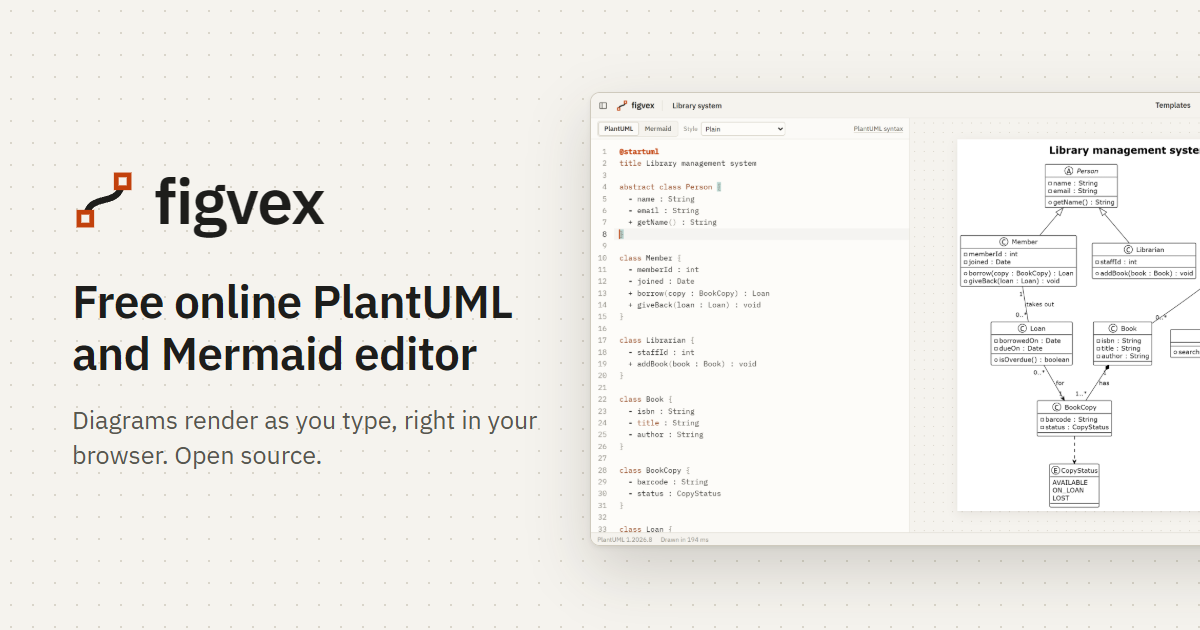
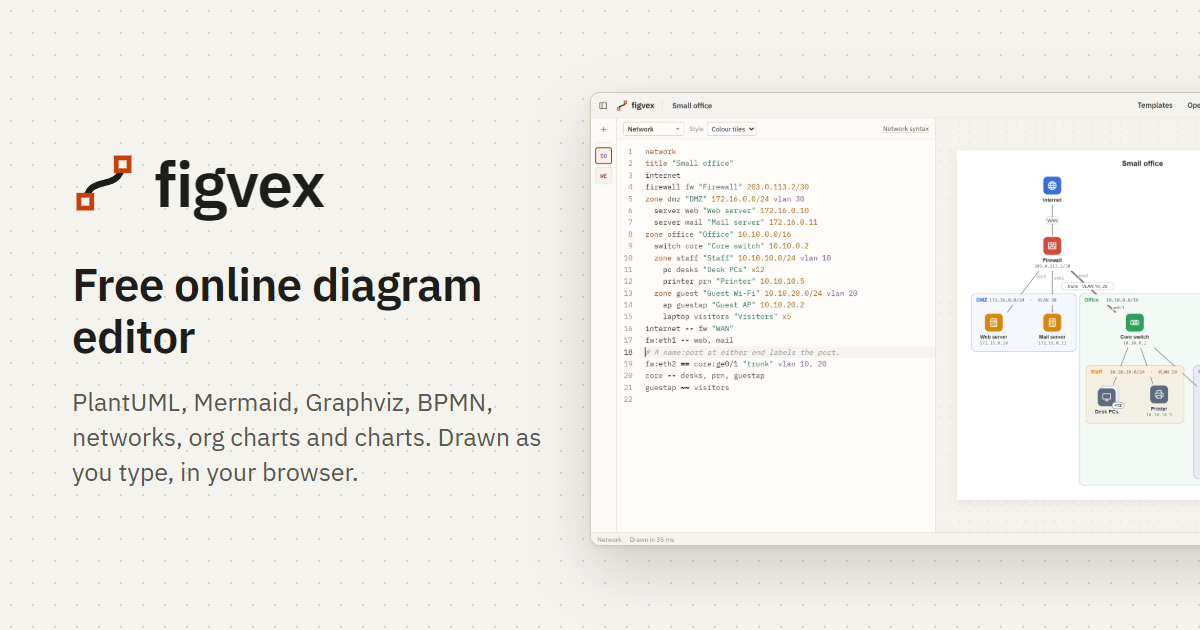
chore: describe every diagram type in search and social previews
The title, description, social cards and structured data still said
"PlantUML, Mermaid and Graphviz". They now cover BPMN, network diagrams,
org charts, data charts and sketches too. The title keeps PlantUML and
Mermaid, which are what people search for.

The structured data gets a feature list and a link to the repository,
and the social preview image is rebuilt with the new headline and the
network screenshot.

diff --git a/index.html b/index.html
@@ -3,8 +3,8 @@
   <head>
     <meta charset="utf-8" />
     <meta name="viewport" content="width=device-width, initial-scale=1, viewport-fit=cover" />
-    <title>Figvex: free online PlantUML, Mermaid and Graphviz editor</title>
-    <meta name="description" content="Free online editor for PlantUML, Mermaid and Graphviz. Write UML, sequence, class, ER, Gantt, DOT and BPMN diagrams and data charts, and see them render as you type. Runs in your browser." />
+    <title>Figvex: free online diagram editor for PlantUML, Mermaid and more</title>
+    <meta name="description" content="Free online diagram editor. Write PlantUML, Mermaid, Graphviz, BPMN, network diagrams, org charts and data charts as text, or sketch by hand, in your browser." />
     <link rel="canonical" href="%SITE_URL%/" />
     <meta name="color-scheme" content="light dark" />
     <meta name="theme-color" content="#f5f3ee" media="(prefers-color-scheme: light)" />
@@ -14,16 +14,16 @@
 
     <meta property="og:type" content="website" />
     <meta property="og:site_name" content="Figvex" />
-    <meta property="og:title" content="Figvex: free online PlantUML, Mermaid and Graphviz editor" />
-    <meta property="og:description" content="Write PlantUML, Mermaid and Graphviz diagrams and data charts, and see them render as you type. Free, open source, and runs in your browser." />
+    <meta property="og:title" content="Figvex: free online diagram editor for PlantUML, Mermaid and more" />
+    <meta property="og:description" content="Write PlantUML, Mermaid, Graphviz, BPMN, network diagrams, org charts and data charts as text, or sketch by hand. Free, open source, and runs in your browser." />
     <meta property="og:url" content="%SITE_URL%/" />
     <meta property="og:image" content="%SITE_URL%/og-image.png" />
     <meta property="og:image:width" content="1200" />
     <meta property="og:image:height" content="630" />
-    <meta property="og:image:alt" content="Figvex editor showing PlantUML code next to the class diagram it draws" />
+    <meta property="og:image:alt" content="Figvex editor with a network diagram written as text next to the drawing" />
     <meta name="twitter:card" content="summary_large_image" />
-    <meta name="twitter:title" content="Figvex: free online PlantUML, Mermaid and Graphviz editor" />
-    <meta name="twitter:description" content="Write PlantUML, Mermaid and Graphviz diagrams and data charts, and see them render as you type. Free, open source, and runs in your browser." />
+    <meta name="twitter:title" content="Figvex: free online diagram editor for PlantUML, Mermaid and more" />
+    <meta name="twitter:description" content="Write PlantUML, Mermaid, Graphviz, BPMN, network diagrams, org charts and data charts as text, or sketch by hand. Free, open source, and runs in your browser." />
     <meta name="twitter:image" content="%SITE_URL%/og-image.png" />
 
     <script type="application/ld+json">
@@ -32,7 +32,20 @@
         "@type": "WebApplication",
         "name": "Figvex",
         "url": "%SITE_URL%/",
-        "description": "Free online editor for PlantUML, Mermaid and Graphviz diagrams and data charts. Diagrams render as you type, in the browser.",
+        "description": "Free online diagram editor. Write PlantUML, Mermaid, Graphviz, BPMN, network diagrams, org charts and data charts as text, or sketch by hand, and see them drawn as you type in the browser.",
+        "featureList": [
+          "PlantUML: sequence, class, activity, use case, state, component, ER, Gantt, mind map and C4 diagrams",
+          "Mermaid: flowcharts, sequence, Gantt, user journey, Git graph and more",
+          "Graphviz DOT graphs with every layout engine",
+          "BPMN 2.0 process diagrams",
+          "Network diagrams with device icons, subnets, VLANs and IP address checks",
+          "Org charts from an indented list of people",
+          "Data charts with Apache ECharts, from JSON or CSV",
+          "A freehand sketch canvas",
+          "Export to SVG, PNG, JPG, WEBP and PDF",
+          "Share links with the whole diagram in the URL"
+        ],
+        "sameAs": "https://github.com/ahmed-imraan-ai/figvex",
         "applicationCategory": "DesignApplication",
         "operatingSystem": "Any",
         "browserRequirements": "Requires JavaScript",
@@ -52,10 +65,11 @@
     </script>
   </head>
   <body>
-    <h1 class="visually-hidden">Figvex: free online PlantUML, Mermaid and Graphviz editor</h1>
+    <h1 class="visually-hidden">Figvex: free online diagram editor for PlantUML, Mermaid and more</h1>
     <noscript>
       <p class="noscript">
-        Figvex is a free online editor for PlantUML, Mermaid and Graphviz diagrams and data charts. It draws diagrams in your browser as you type, so it needs JavaScript.
+        Figvex is a free online diagram editor. Write PlantUML, Mermaid, Graphviz, BPMN, network diagrams, org charts and data charts as text, or sketch by hand,
+        and see them drawn as you type. It runs in your browser, so it needs JavaScript.
         Turn JavaScript on to use it, or see the source code on GitHub: https://github.com/ahmed-imraan-ai/figvex
       </p>
     </noscript>

diff --git a/README.md b/README.md
@@ -4,7 +4,7 @@
 
 **Live site: [figvex.sudo520.com](https://figvex.sudo520.com)**
 
-A live editor for PlantUML, Mermaid, Graphviz and BPMN diagrams, org charts, data charts and freeform sketches. Type on the left, the diagram redraws on the right. It runs in the browser, and your diagrams stay on your machine unless you share them or turn on the PlantUML server option.
+A live editor for PlantUML, Mermaid, Graphviz and BPMN diagrams, network diagrams, org charts, data charts and freeform sketches. Type on the left, the diagram redraws on the right. It runs in the browser, and your diagrams stay on your machine unless you share them or turn on the PlantUML server option.
 
 It was built for computer science students: UML for software engineering courses, ER diagrams for databases, state machines and automata for theory, trees and graphs for algorithms, Gantt charts for group projects, and charts of results for lab reports.
 
